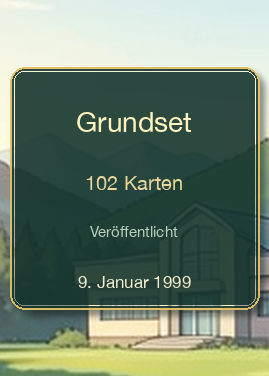
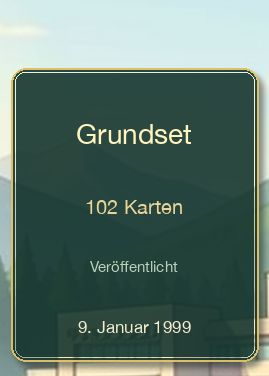
fix: add print-safe space around tall poster characters

diff --git a/scripts/poster_assets/prepare_comfyui_poster.py b/scripts/poster_assets/prepare_comfyui_poster.py
@@ -69,21 +69,35 @@ def build_identity_references(scope_dir: Path, manifest: dict[str, Any]) -> None
     portrait-scale hero.  A poster-shaped canvas carries the same anatomy detail
     while reinforcing the exact card-safe cell, scale, and baseline.
     """
-    width, height = output_dimensions(scope_dir.name, 1.0)
-    layout = build_page_layout(
-        manifest.get("layout", {}).get("name", "standard_3x3"), width_px=width
+    layout_name = manifest.get("layout", {}).get("name", "standard_3x3")
+    base_width, base_height = output_dimensions(scope_dir.name, 1.0)
+    base_layout = build_page_layout(
+        layout_name, width_px=base_width
     )
-    placements = card_safe_conditioning_placements(
-        cutout_placements(layout, scope_dir), tall_scale=1.0
-    )
+    placements = cutout_placements(base_layout, scope_dir)
     neutral = (226, 224, 211)
     reference_path = scope_dir / "comfyui_poster" / "identity_reference_1.png"
     for index, placement in enumerate(placements, start=1):
-        reference = Image.new("RGB", (width, height), neutral)
         character = placement["image"]
+        alpha_box = character.getchannel("A").getbbox()
+        if alpha_box is None:
+            raise ValueError("Identity reference has no visible pixels")
+        alpha_width = alpha_box[2] - alpha_box[0]
+        alpha_height = alpha_box[3] - alpha_box[1]
+        if alpha_width / alpha_height < 0.85:
+            width, height = output_dimensions(scope_dir.name, 2.25)
+            reference_layout = build_page_layout(layout_name, width_px=width)
+            cell = reference_layout.bottom_row_cells()[index - 1]
+            x = cell.x + round(cell.width * 0.10) - alpha_box[0]
+            baseline = cell.y + round(cell.height * 0.88)
+            y = baseline - alpha_box[3]
+        else:
+            width, height = base_width, base_height
+            x, y = placement["x"], placement["y"]
+        reference = Image.new("RGB", (width, height), neutral)
         reference.paste(
             character.convert("RGB"),
-            (placement["x"], placement["y"]),
+            (x, y),
             character.getchannel("A"),
         )
         reference.save(

diff --git a/scripts/tests/test_poster_assets.py b/scripts/tests/test_poster_assets.py
@@ -121,20 +121,25 @@ def test_identity_references_use_poster_coordinates():
     build_identity_references(scope_dir, manifest)
 
     layout = build_page_layout("standard_3x3", width_px=848)
-    for index, cell in enumerate(layout.bottom_row_cells(), start=1):
+    for index in range(1, layout.pokemon_count + 1):
         image = Image.open(
             scope_dir / "comfyui_poster" / f"identity_reference_{index}.png"
         ).convert("RGB")
-        assert image.size == (848, 1168)
         neutral = Image.new("RGB", image.size, (226, 224, 211))
         bbox = ImageChops.difference(image, neutral).getbbox()
         assert bbox is not None
+        reference_layout = build_page_layout("standard_3x3", width_px=image.width)
+        cell = reference_layout.bottom_row_cells()[index - 1]
         assert bbox[0] >= cell.x
         assert bbox[1] >= cell.y
         assert bbox[2] <= cell.x + cell.width
         assert bbox[3] <= cell.y + cell.height
         if index == 1:
-            assert bbox[2] <= cell.x + round(cell.width * 0.86)
+            assert image.width > 848
+            assert bbox[1] >= cell.y + round(cell.height * 0.35)
+            assert bbox[2] <= cell.x + round(cell.width * 0.60)
+        else:
+            assert image.size == (848, 1168)
 
 
 def test_comfyui_inpaint_uses_source_once_without_reference_conditioning():

diff --git a/scripts/poster_assets/create_comfyui_poster_workflow.py b/scripts/poster_assets/create_comfyui_poster_workflow.py
@@ -88,7 +88,12 @@ def build_workflow(
             "character, including its complete silhouette, must remain wholly "
             "inside its assigned bottom-row card cell as shown in IMAGE 4; no character "
             "may cross the horizontal boundary above the bottom row or either "
-            "vertical card boundary. The individual images are identity references, not "
+            "vertical card boundary. Leave visible landscape padding between every "
+            "silhouette and every card edge. The left Mewtwo specifically needs "
+            "generous clear space above its head and to the right of its hand; it "
+            "must occupy at most seventy percent of its card's height and width, and "
+            "its rightmost fingertip must end before the final quarter of that cell. The "
+            "individual images are identity references, not "
             "additional subjects and not scale references.\n\n"
             + prompt
         )

diff --git a/scripts/poster_assets/finalize_comfyui_poster.py b/scripts/poster_assets/finalize_comfyui_poster.py
@@ -79,7 +79,13 @@ def localized_date(value: str, language: str) -> str:
 
 
 def draw_info_panel(canvas: Image.Image, cell, scope_data: dict, language: str) -> None:
-    box = cell.inset(0.04, 0.18)
+    pad_x = round(cell.width * 0.04)
+    box = (
+        cell.x + pad_x,
+        cell.y + round(cell.height * 0.18),
+        cell.x + cell.width - pad_x,
+        cell.y + cell.height - round(cell.height * 0.04),
+    )
     scale = canvas.width / 1400
     overlay = Image.new("RGBA", canvas.size, (0, 0, 0, 0))
     draw = ImageDraw.Draw(overlay, "RGBA")

diff --git a/docs/POSTER_ARTWORK_CONCEPT.md b/docs/POSTER_ARTWORK_CONCEPT.md
@@ -124,7 +124,7 @@ text compositing with one command:
 ```bash
 venv/bin/python scripts/poster_assets/run_comfyui_poster.py \
   --engine flux --flux-mode edit --scope Base1 \
-  --seed 260716309 --language en
+  --seed 260716311 --language en
 ```
 
 The default generates the cohesive scene at 0.25 MP and resizes that complete
@@ -166,9 +166,11 @@ their exact intended positions, sizes, and shared ground level. It also creates
 one high-resolution, poster-shaped identity reference per Pokemon. Each identity
 reference uses the final poster coordinate system and places its subject wholly
 inside the assigned bottom-row card. This avoids the portrait-scale bias caused
-by square close-ups while retaining enough anatomy detail for Mewtwo. None of
-these references contains a layout grid, landing pads, paths, text boxes, or
-previous generated artwork.
+by square close-ups while retaining enough anatomy detail for Mewtwo. Tall,
+wide-reaching subjects keep their high-detail identity pixel size on a larger 2.25 MP
+reference canvas, creating visible print-safe space without shrinking away anatomy
+detail. None of these references contains a layout grid, landing pads, paths, text
+boxes, or previous generated artwork.
 The two FLUX modes deliberately use mutually exclusive conditioning topologies.
 `inpaint` keeps the Pokemon as the unmasked source of `VAEEncodeForInpaint` and
 does not add a `ReferenceLatent`. `edit` uses an independent empty target latent
@@ -205,7 +207,7 @@ experiments show that additional steps alone do not solve reference-identity
 hallucinations.
 
 The promoted local candidate is `poster-flux2.png`, generated with seed
-`260716309`, distilled FLUX.2 Klein 4B, four steps, `edit` mode, and `identity`
+`260716311`, distilled FLUX.2 Klein 4B, four steps, `edit` mode, and `identity`
 reference mode. The cohesive scene was sampled at 0.25 MP and resized as a whole
 to 1 MP before the deterministic overlay. Identity mode supplies three
 card-positioned character references followed by the combined scene composition.
